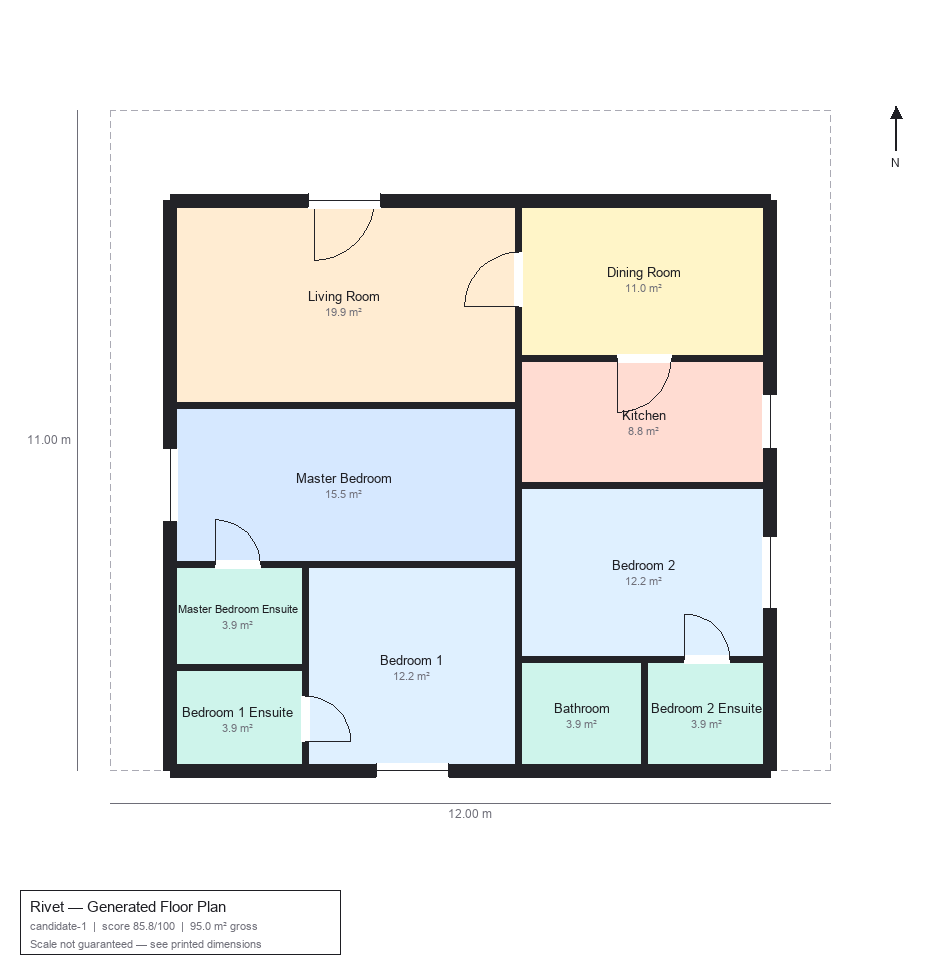
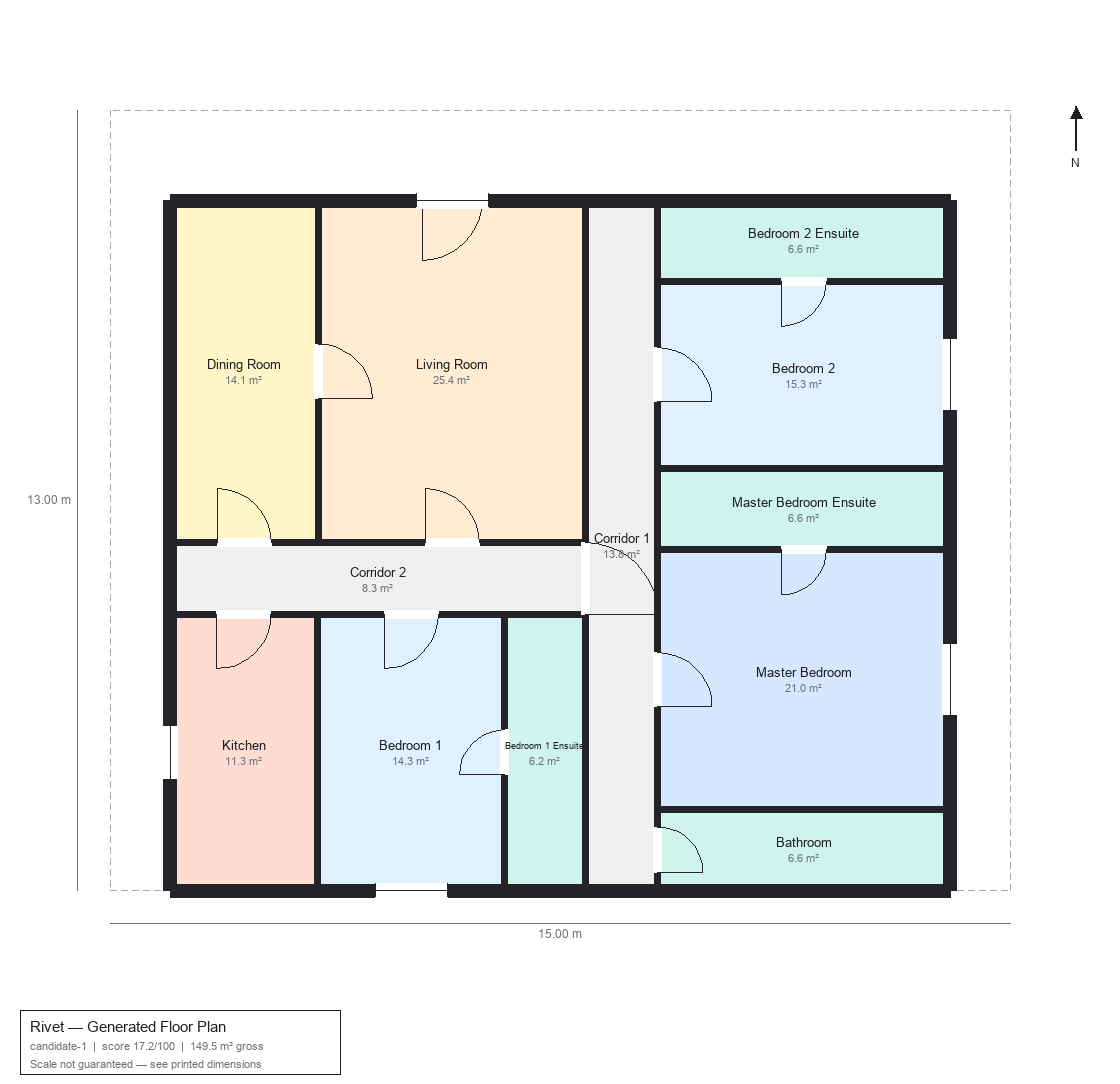
Fix CI/docs example plot sizes made infeasible by Phase 3 circulation
The 12x11/12x15 example plots used in ci.yml's smoke test, CONTRIBUTING.md,
and README.md's quickstart/API/badge examples all predate Phase 3 -- the
same room program that used to fit no longer does once circulation takes
its share of the buildable area (min_width violations on Bedroom and
Dining Room), exactly like the sample_request test fixture needed
resizing to 15x13 for. Applied the same known-feasible plot size
everywhere the old one appeared, and regenerated the stale README sample
image (now showing the auto-generated corridors from Phase 3).

diff --git a/README.md b/README.md
@@ -15,10 +15,10 @@ Nothing here is a lookup. Every wall, door, and window is generated from
 the room program you give it.
 
 <p align="center">
-  <img src="docs/assets/sample-floorplan.png" alt="A Rivet-generated floor plan: 12m x 11m plot, living room, master bedroom with en-suite, two bedrooms with en-suites, kitchen, dining room, bathroom" width="560">
+  <img src="docs/assets/sample-floorplan.png" alt="A Rivet-generated floor plan: 15m x 13m plot, living room, master bedroom with en-suite, two bedrooms with en-suites, kitchen, dining room, bathroom, connected by an auto-generated corridor" width="560">
 </p>
 
-<sub>Generated by `rivet generate --width 12 --length 11 --road-width 9 --height 6 --room living_room --room master_bedroom+ensuite --room bedroom:2+ensuite --room kitchen --room dining_room --room bathroom --seed 42` — nothing in this image is hand-placed, and every room here clears its cited TNCDBR 2019 legal minimum.</sub>
+<sub>Generated by `rivet generate --width 15 --length 13 --road-width 9 --height 6 --room living_room --room master_bedroom+ensuite --room bedroom:2+ensuite --room kitchen --room dining_room --room bathroom --seed 42` — nothing in this image is hand-placed, and every room here clears its cited TNCDBR 2019 legal minimum.</sub>
 
 ## Features
 
@@ -77,7 +77,7 @@ pip install -e ".[dev]"
 
 ```bash
 rivet generate \
-  --width 12 --length 11 --entrance north \
+  --width 15 --length 13 --entrance north \
   --road-width 9 --height 6 \
   --room living_room \
   --room master_bedroom+ensuite \
@@ -115,7 +115,7 @@ Or hit the API directly:
 curl -X POST http://127.0.0.1:5000/api/v1/generate \
   -H "Content-Type: application/json" \
   -d '{
-    "plot": {"width_m": 12, "length_m": 15, "entrance": "north"},
+    "plot": {"width_m": 15, "length_m": 13, "entrance": "north"},
     "rooms": [
       {"room_type": "living_room", "count": 1},
       {"room_type": "master_bedroom", "count": 1, "attached_bathroom": true},

diff --git a/CONTRIBUTING.md b/CONTRIBUTING.md
@@ -24,7 +24,7 @@ Try the CLI end-to-end (also a fast way to sanity-check a change to the
 engine without spinning up the web server):
 
 ```bash
-rivet generate --width 12 --length 15 \
+rivet generate --width 15 --length 13 \
   --room living_room --room master_bedroom+ensuite \
   --room bedroom:2+ensuite --room kitchen --room dining_room --room bathroom \
   --seed 1 --out-dir /tmp/rivet-dev
